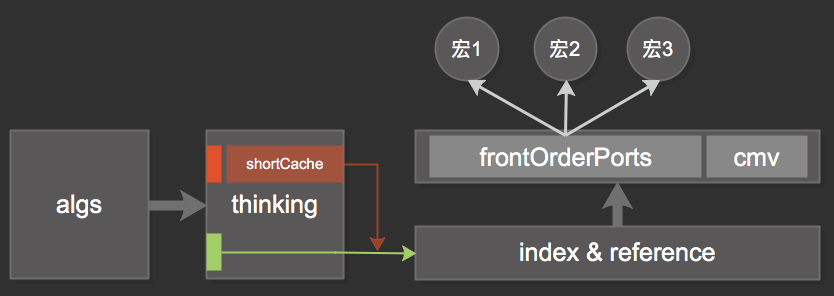
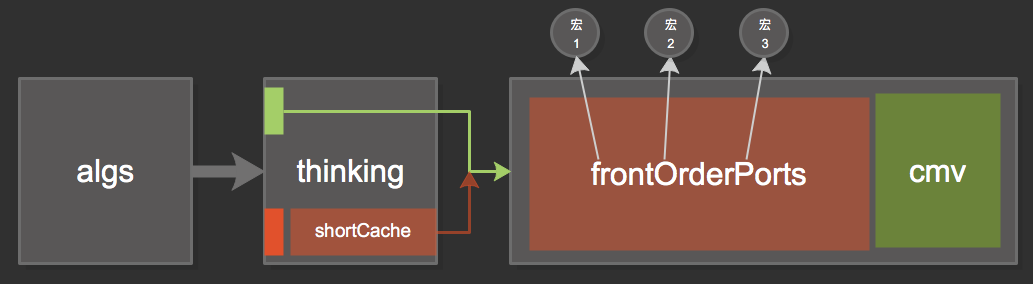
构建cmv模型的步骤变动;

diff --git a/目录.md b/目录.md
@@ -5,7 +5,7 @@
 # 第一部分（主笔记）
 
 - ## 手写笔记
-  - [Note12](手写笔记/Note12.md)<font size="1" color="#888888"> 修改时间:05月08日 09:13:19</font>
+  - [Note12](手写笔记/Note12.md)<font size="1" color="#888888"> 修改时间:05月08日 09:33:22</font>
   - [Note11](手写笔记/Note11.md)<font size="1" color="#888888"> 修改时间:05月05日 18:18:12</font>
   - [Note10](手写笔记/Note10.md)<font size="1" color="#888888"> 修改时间:02月05日 07:54:42</font>
   - [Note9](手写笔记/Note9.md)<font size="1" color="#888888"> 修改时间:05月07日 07:39:46</font>
@@ -17,6 +17,7 @@
   - [Note3](手写笔记/Note3.md)<font size="1" color="#888888"> 修改时间:01月23日 17:20:26</font>
   - [Note2](手写笔记/Note2.md)<font size="1" color="#888888"> 修改时间:01月23日 17:20:26</font>
   - [Note1](手写笔记/Note1.md)<font size="1" color="#888888"> 修改时间:01月23日 17:20:26</font>
+
 
 
 

diff --git a/手写笔记/Note12.md b/手写笔记/Note12.md
@@ -578,6 +578,16 @@
 | 变动2. 宏123的抽象不应影响到cmv基本模型 `因为前因序列中的宏123由thinking识别阶段确定` `抽象成长后,直接作废此处即可` `如:蜻和蜓在形成词后,原先对蜻和蜓单独的喜好,则升级后,废退` |
 | 变动3. 序列从algs到thinking的shortCache已经决定,所以在示图模型外加入这俩流程 |
 
+<br>
+
+| 构建步骤变动 >> |
+| --- |
+| 1. algs传入信息 |
+| 2. thinking处理并分类 `noMv存shortCache` `mv则触发构建cmv模型` |
+| 3. 分别构建:frontOrderPorts和cmv的宏Node |
+| 4. 生成cmv模型,并指向刚刚构建的Node们 |
+
+
 
 
 <br><br><br><br><br>
